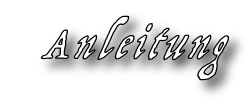
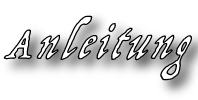
new bild and som bugfixes

Changed region(s): [[0.0, 0.15, 1.0, 0.93]]

diff --git a/GUI_Project/src/Game/Options.java b/GUI_Project/src/Game/Options.java
@@ -85,7 +85,7 @@ public class Options implements Serializable{
 		optionsView.setKi(chkbx);
 		playerIsKi = new boolean[this.player];
 		
-		for(int i = 0; i < this.optionsView.getKiBox().length ; i++){
+		for(int i = 0; i < this.playerIsKi.length; i++){
 			this.playerIsKi[i] = this.optionsView.getKiBox()[i].isSelected();
 		}
 	}
@@ -157,7 +157,7 @@ public class Options implements Serializable{
 		this.optionsView.setKiSelectionListener(new SetKiListener());
 		this.optionsView.setShipsSelectionListener(new SetShipsListener() );
 		this.optionsView.setSizeSelectionListener(new SetSizeListener() );
-	}
+		}
 
 	/**
 	 * Inneren Listener Klassen implementieren das Interface ActionListener

diff --git a/GUI_Project/src/Game/InitGame.java b/GUI_Project/src/Game/InitGame.java
@@ -31,6 +31,7 @@ public class InitGame implements Serializable{
 	public InitGame(boolean start, int width, int height){
 		if(start){
 			this.gameOptions = new Options(width, height);
+			addOkListener();
 			//Round rounds = new Round(this.player, this.fieldSize);
 			//rounds.play();
 		}else{
